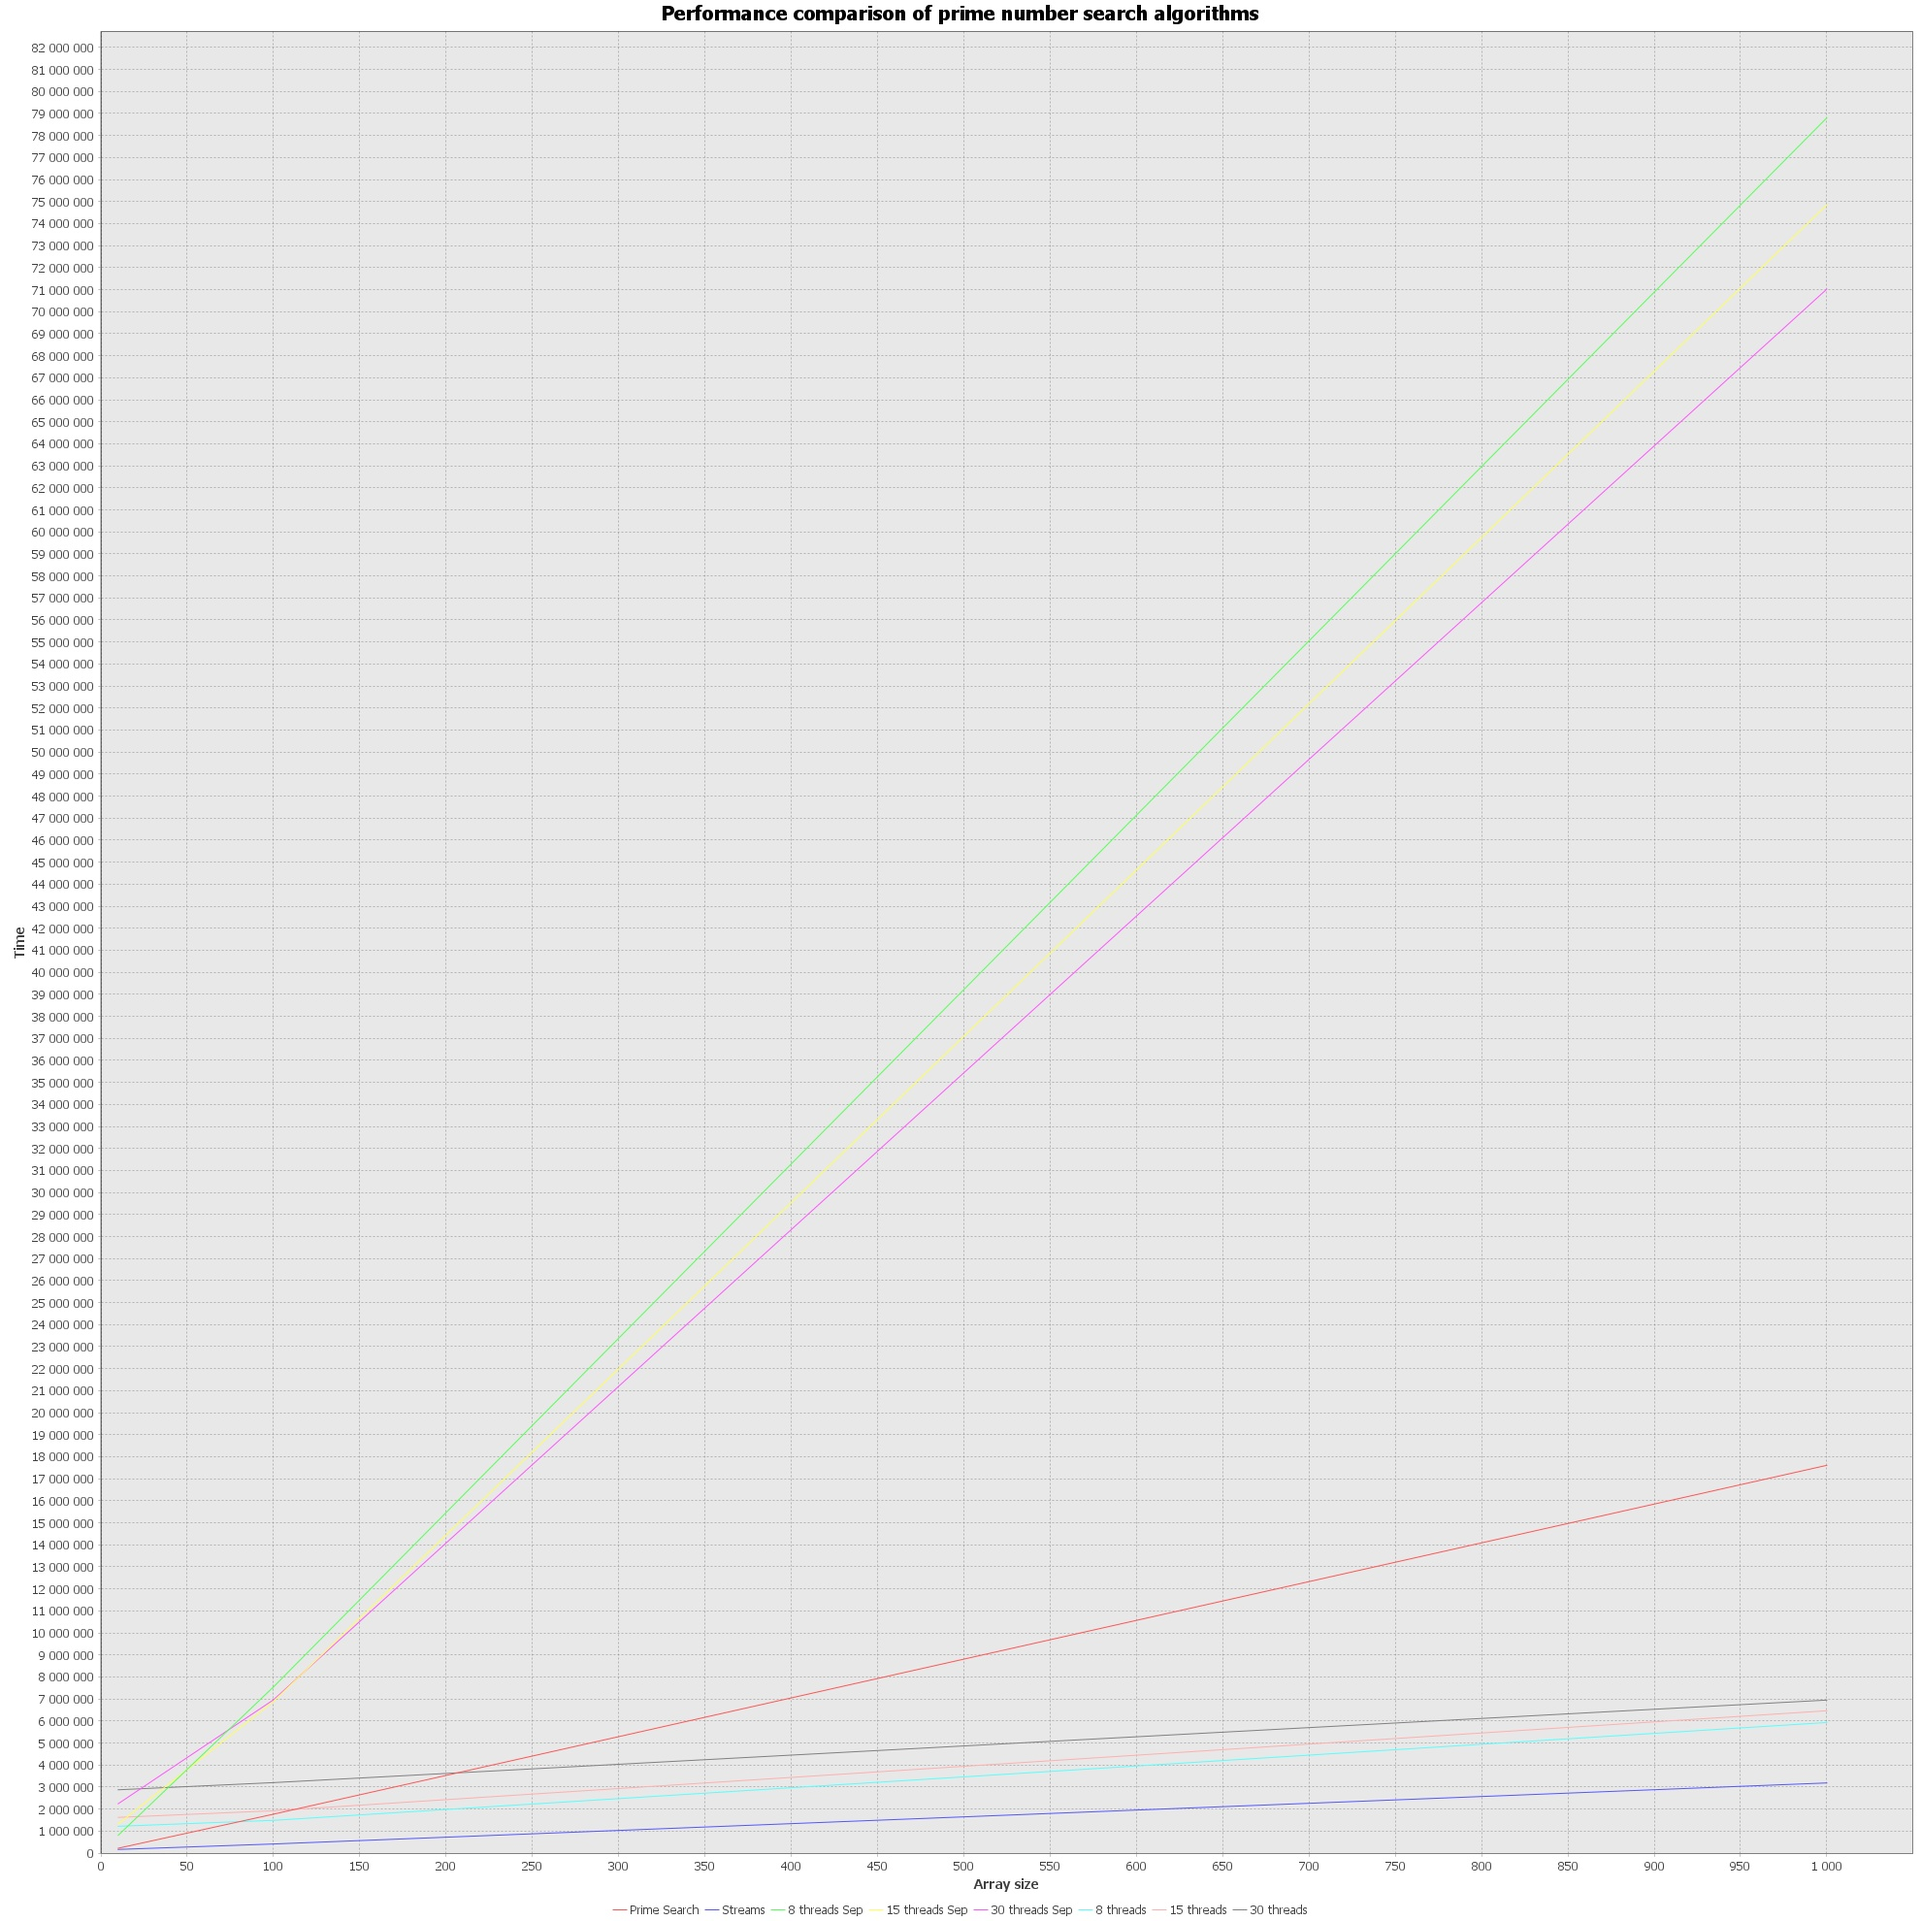
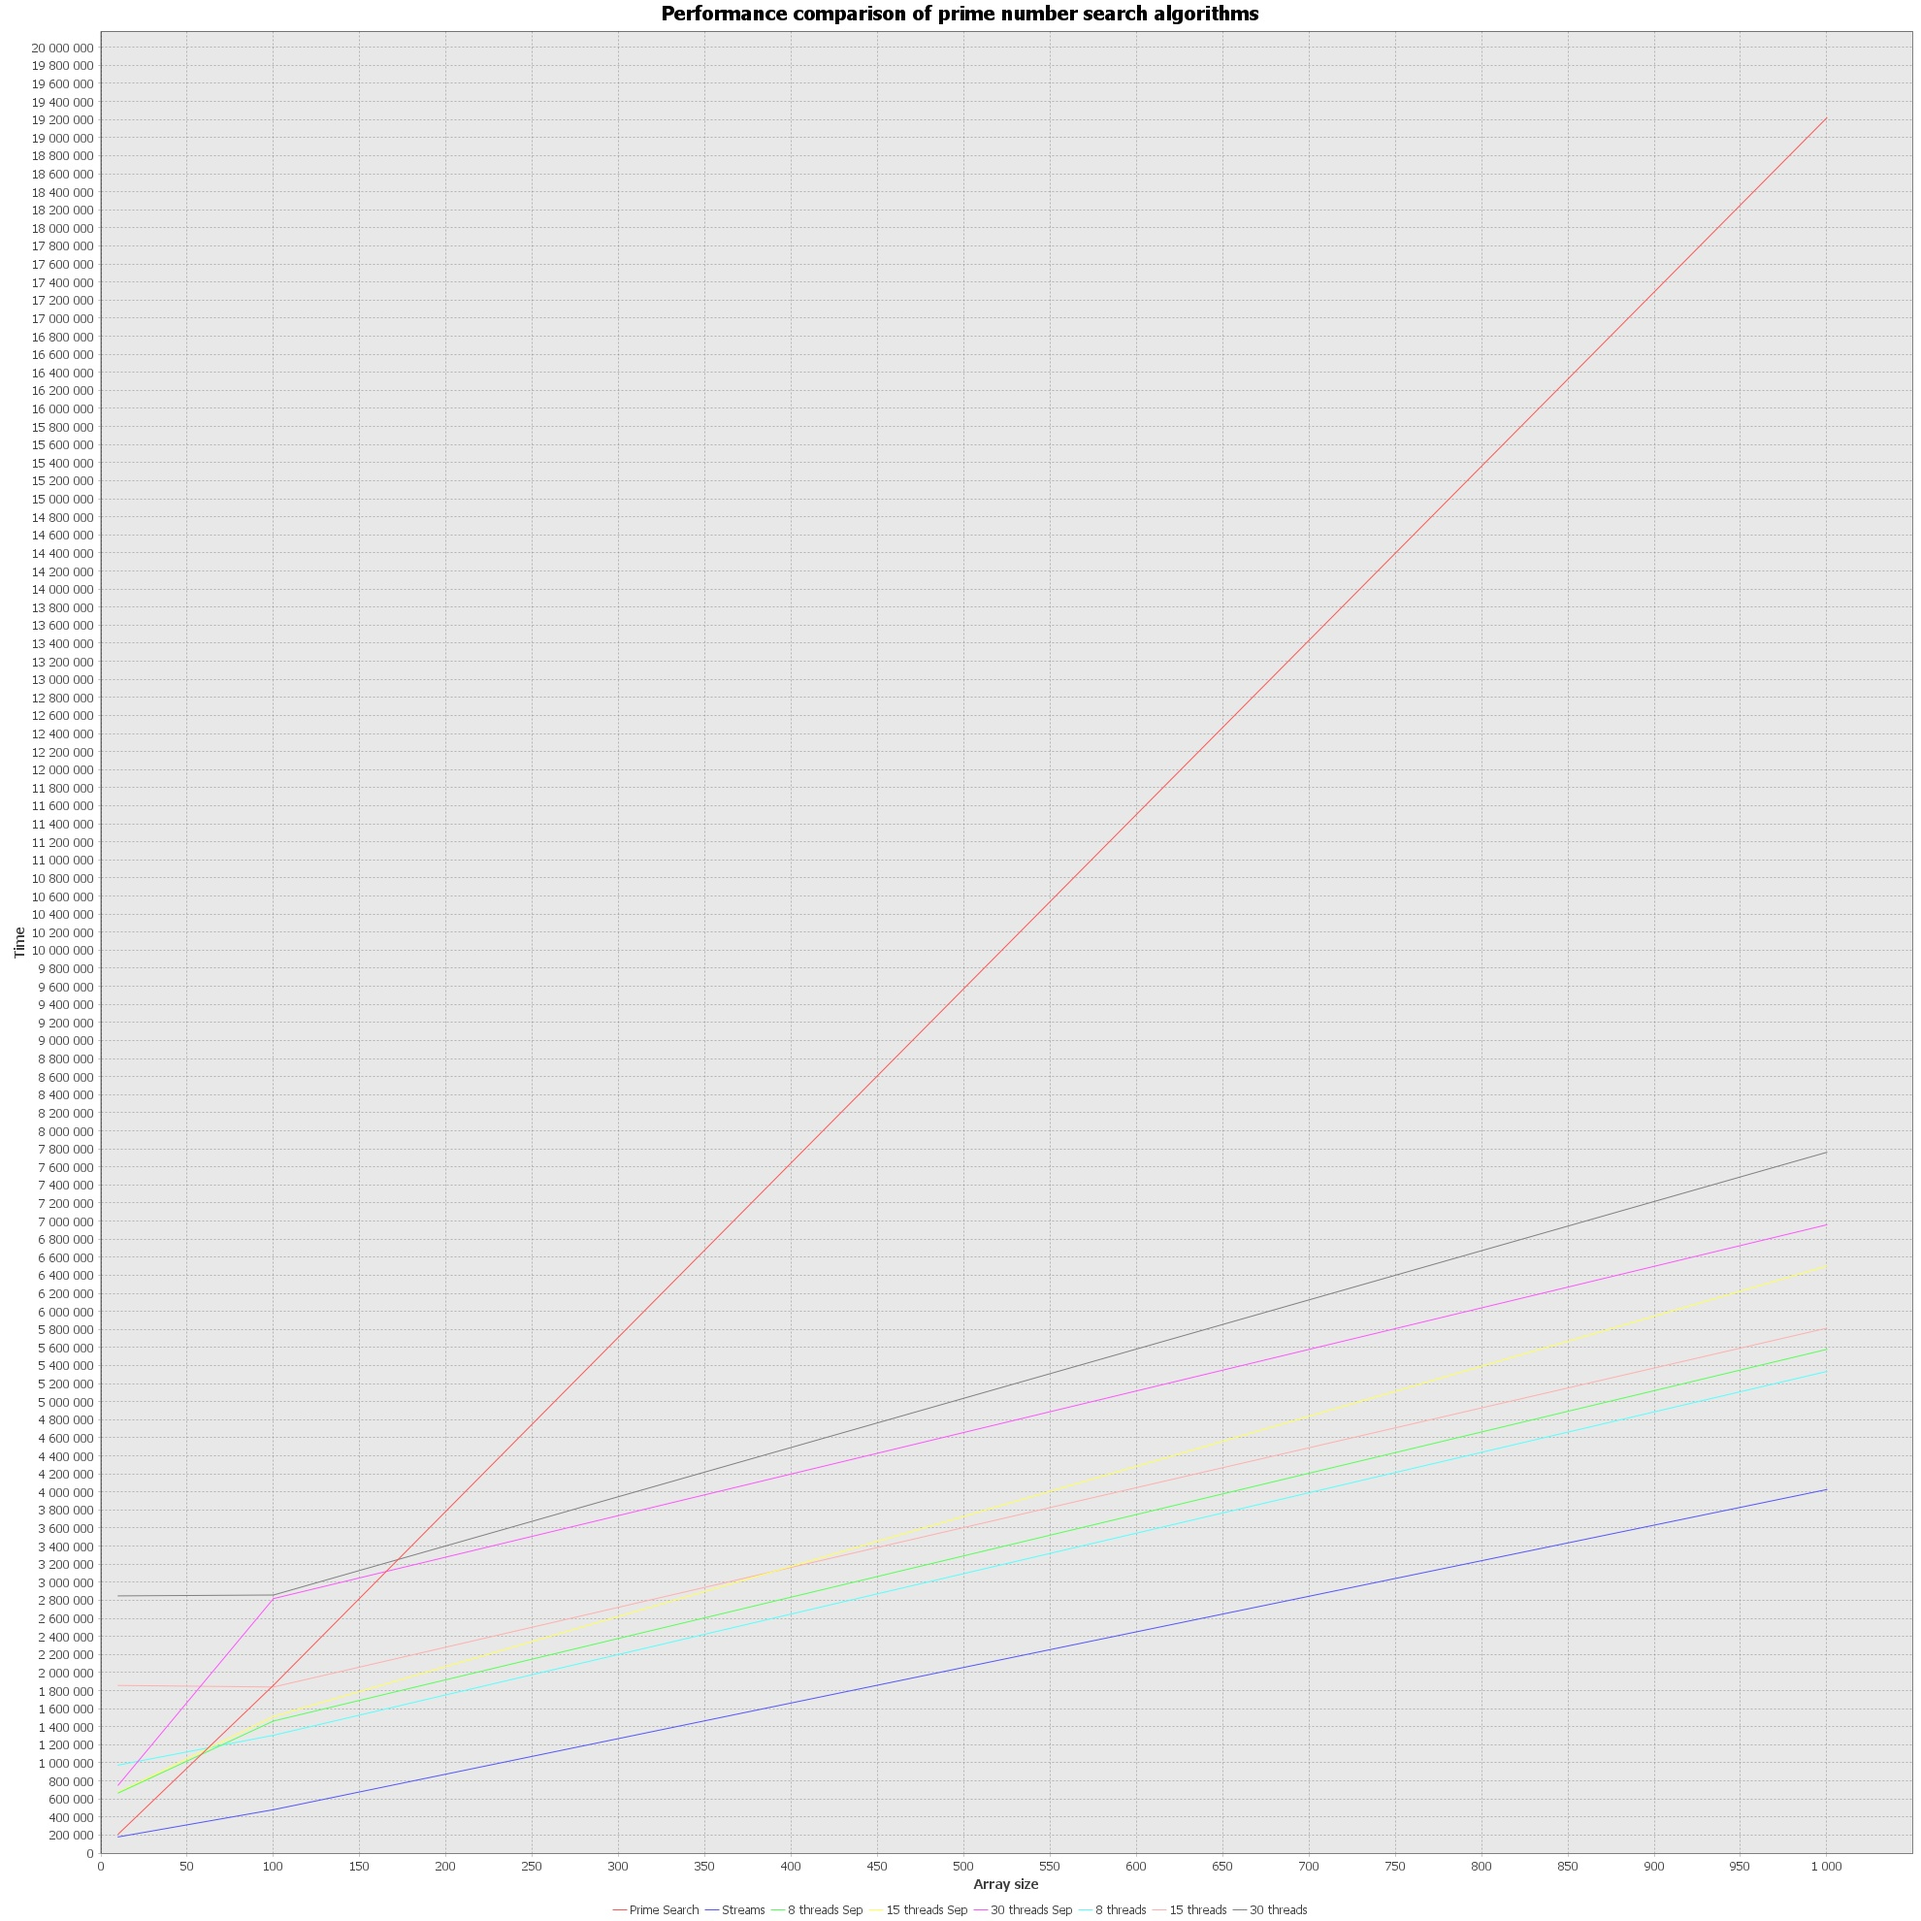
Почему-то старый коммит не запушился, видимо в электрички, когда я это дописывал, пропал интернет, а я даже не заметил

diff --git a/Task_2_1_1/src/main/java/ru/nsu/mbogdanov2/PrimeSearchWithThreadsBySeparation.java b/Task_2_1_1/src/main/java/ru/nsu/mbogdanov2/PrimeSearchWithThreadsBySeparation.java
@@ -24,7 +24,7 @@ public class PrimeSearchWithThreadsBySeparation {
             threadsNumber = Runtime.getRuntime().availableProcessors();
         }
         int listPart;
-        if (primeList.size() >= threadsNumber) {
+        if (primeList.size() < threadsNumber) {
             listPart = 1;
             threadsNumber = primeList.size();
         } else {

diff --git a/Task_2_1_1/src/test/java/ru/nsu/mbogdanov2/speed/PerformanceTest.java b/Task_2_1_1/src/test/java/ru/nsu/mbogdanov2/speed/PerformanceTest.java
@@ -67,6 +67,7 @@ public class PerformanceTest {
         return Collections.min(results);
     }
 
+
     @Test
     public void performanceTest() throws ExecutionException, InterruptedException, IOException {
         XYSeriesCollection dataset = new XYSeriesCollection();
